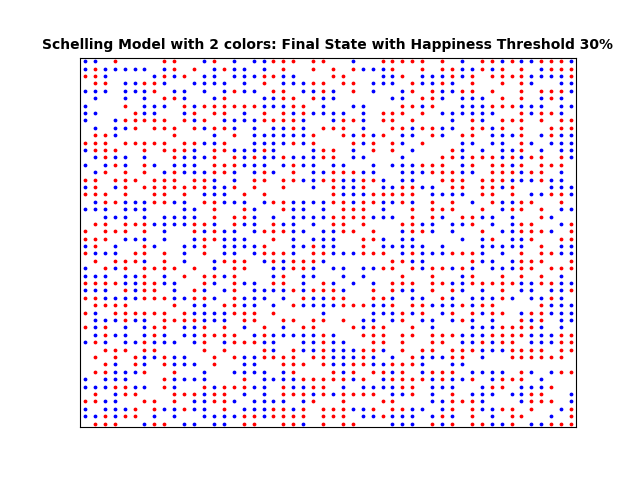
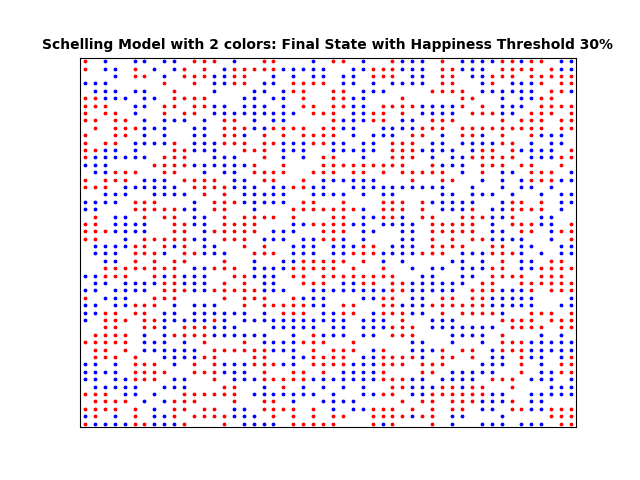
Agents have prefrence

Changed region(s): [[0.125, 0.125, 0.9062, 0.9062], [0.5312, 0.875, 0.5625, 0.9062]]

diff --git a/Segregation.py b/Segregation.py
@@ -14,89 +14,88 @@ import copy
 
 
 class Schelling:
-    def __init__(self, width, height, empty_ratio, similarity_threshold, n_iterations, colors=2):
+    def __init__(self, width, height, empty_ratio, similarity_thresholds, n_iterations, colors=2, preference_thresholds=None):
         self.agents = None
         self.width = width
         self.height = height
         self.colors = colors
         self.empty_ratio = empty_ratio
-        self.similarity_threshold = similarity_threshold
+        self.similarity_thresholds = similarity_thresholds
+        self.preference_thresholds = preference_thresholds
         self.n_iterations = n_iterations
 
     def populate(self):
-            self.empty_houses = []
-            self.agents = {}
-            print("Populate ", self.width, self.height)
-            self.all_houses = list(itertools.product(range(self.width), range(self.height)))
-            print(self.all_houses)
-            random.shuffle(self.all_houses)
+        self.empty_houses = []
+        self.agents = {}
+        self.all_houses = list(itertools.product(range(self.width), range(self.height)))
+        random.shuffle(self.all_houses)
 
-            self.n_empty = int(self.empty_ratio * len(self.all_houses))
-            self.empty_houses = self.all_houses[:self.n_empty]
+        self.n_empty = int(self.empty_ratio * len(self.all_houses))
+        self.empty_houses = self.all_houses[:self.n_empty]
 
-            self.remaining_houses = self.all_houses[self.n_empty:]
-            houses_by_color = [self.remaining_houses[i::self.colors] for i in range(self.colors)]
-            print("Houses by color ", houses_by_color[0])
-            for i in range(self.colors):
-                # create agents for each color
-                dict2 = dict(zip(houses_by_color[i], [i + 1] * len(houses_by_color[i])))
-                self.agents = {**self.agents, **dict2}
-            print("dictionary", self.agents)
+        self.remaining_houses = self.all_houses[self.n_empty:]
+        houses_by_color = [self.remaining_houses[i::self.colors] for i in range(self.colors)]
+
+        for i in range(self.colors):
+            dict2 = dict(zip(houses_by_color[i], [(i + 1, self.preference_thresholds.get(i + 1, 0.5))] * len(houses_by_color[i])))
+            self.agents = {**self.agents, **dict2}
 
     def is_unsatisfied(self, x, y):
-
-        myColor = self.agents[(x, y)]
+        myColor, myThreshold = self.agents[(x, y)]
         count_similar = 0
         count_different = 0
 
         if x > 0 and y > 0 and (x - 1, y - 1) not in self.empty_houses:
-            if self.agents[(x - 1, y - 1)] == myColor:
+            if self.agents[(x - 1, y - 1)][0] == myColor:
                 count_similar += 1
             else:
                 count_different += 1
         if y > 0 and (x, y - 1) not in self.empty_houses:
-            if self.agents[(x, y - 1)] == myColor:
+            if self.agents[(x, y - 1)][0] == myColor:
                 count_similar += 1
             else:
                 count_different += 1
         if x < (self.width - 1) and y > 0 and (x + 1, y - 1) not in self.empty_houses:
-            if self.agents[(x + 1, y - 1)] == myColor:
+            if self.agents[(x + 1, y - 1)][0] == myColor:
                 count_similar += 1
             else:
                 count_different += 1
         if x > 0 and (x - 1, y) not in self.empty_houses:
-            if self.agents[(x - 1, y)] == myColor:
+            if self.agents[(x - 1, y)][0] == myColor:
                 count_similar += 1
             else:
                 count_different += 1
         if x < (self.width - 1) and (x + 1, y) not in self.empty_houses:
-            if self.agents[(x + 1, y)] == myColor:
+            if self.agents[(x + 1, y)][0] == myColor:
                 count_similar += 1
             else:
                 count_different += 1
         if x > 0 and y < (self.height - 1) and (x - 1, y + 1) not in self.empty_houses:
-            if self.agents[(x - 1, y + 1)] == myColor:
+            if self.agents[(x - 1, y + 1)][0] == myColor:
                 count_similar += 1
             else:
                 count_different += 1
         if x > 0 and y < (self.height - 1) and (x, y + 1) not in self.empty_houses:
-            if self.agents[(x, y + 1)] == myColor:
+            if self.agents[(x, y + 1)][0] == myColor:
                 count_similar += 1
             else:
                 count_different += 1
         if x < (self.width - 1) and y < (self.height - 1) and (x + 1, y + 1) not in self.empty_houses:
-            if self.agents[(x + 1, y + 1)] == myColor:
+            if self.agents[(x + 1, y + 1)][0] == myColor:
                 count_similar += 1
             else:
                 count_different += 1
 
-        color_threshold = self.similarity_threshold.get(myColor, self.similarity_threshold)  # Get color-specific threshold
+        color_threshold = self.similarity_thresholds.get(myColor, self.similarity_thresholds)
+        preference_threshold = myThreshold
+
         if (count_similar + count_different) == 0:
             return False
         else:
-            return float(count_similar) / (count_similar + count_different) < color_threshold
-    
-    def move_locations(self, similarity_threshold=1e-2, consecutive_iterations_threshold=1, swap_probability=0.5):
+            return (float(count_similar) / (count_similar + count_different)) < color_threshold or \
+                   (float(count_similar) / (count_similar + count_different)) < preference_threshold
+
+    def move_locations(self, similarity_threshold=1e-2, consecutive_iterations_threshold=3, swap_probability=0.5):
         total_distance = 0
         prev_similarity = 0.0
         consecutive_iterations = 0
@@ -167,11 +166,21 @@ class Schelling:
         return self.calculate_similarity_for_agent(agent1) < self.calculate_similarity_for_agent(agent2)
     
     def calculate_similarity_for_agent(self, agent):
-        # Calculate similarity for a specific agent
         count_similar = 0
         count_different = 0
         x, y = agent
         color = self.agents[(x, y)]
+
+        # Check similarity with neighbors
+        for i in range(-1, 2):
+            for j in range(-1, 2):
+                if 0 <= x + i < self.width and 0 <= y + j < self.height and (i, j) != (0, 0):
+                    neighbor_color = self.agents.get((x + i, y + j), None)
+                    if neighbor_color is not None:
+                        if neighbor_color == color:
+                            count_similar += 1
+                        else:
+                            count_different += 1
 
         try:
             return float(count_similar) / (count_similar + count_different)
@@ -180,11 +189,20 @@ class Schelling:
     
     def plot(self, title, file_name):
         fig, ax = plt.subplots()
-        # If you want to run the simulation with more than 7 colors, you should set agent_colors accordingly
-        agent_colors = {1: 'b', 2: 'r', 3: 'g', 4: 'c', 5: 'm', 6: 'y', 7: 'k', 8: 'orange', 9: 'purple'}
-        marker_size = 150/self.width  # no logic here, I just played around with it
-        for agent in self.agents:
-            ax.scatter(agent[0] + 0.5, agent[1] + 0.5,s=marker_size, color=agent_colors[self.agents[agent]])
+
+        # Define color schemes for 2, 3, and 5 colors
+        color_schemes = {
+            2: {1: 'blue', 2: 'red'},
+            3: {1: 'blue', 2: 'red', 3: 'green'},
+            5: {1: 'blue', 2: 'red', 3: 'green', 4: 'yellow', 5: 'purple'}
+        }
+
+        agent_colors = color_schemes.get(self.colors, {i: 'gray' for i in range(1, self.colors + 1)})
+
+        marker_size = 150 / self.width
+        for agent, color in self.agents.items():
+            x, y = agent
+            ax.scatter(x + 0.5, y + 0.5, s=marker_size, color=agent_colors.get(color[0], 'gray'))
 
         ax.set_title(title, fontsize=10, fontweight='bold')
         ax.set_xlim([0, self.width])
@@ -250,30 +268,35 @@ class Schelling:
 
 def main():
     ##Starter Simulation
-    schelling_0 = Schelling(5, 5, 0.3, {1: 0.3, 2: 0.3}, 200, 2)  # Example with different thresholds for each color
+    schelling_0 = Schelling(5, 5, 0.3, {1: 0.3, 2: 0.3}, 200, 2, {1: 0.5, 2: 0.5})  # Example with different thresholds for each color
     schelling_0.populate()
 
     ##First Simulation
-    schelling_1 = Schelling(50, 50, 0.3, {1: 0.3, 2: 0.3}, 200, 2)
+    schelling_1 = Schelling(50, 50, 0.3, {1: 0.3, 2: 0.3}, 200, 2, {1: 0.5, 2: 0.5})
     schelling_1.populate()
 
-    schelling_2 = Schelling(50, 50, 0.3, {1: 0.3, 2: 0.5}, 200, 2)
+    schelling_2 = Schelling(50, 50, 0.3, {1: 0.3, 2: 0.5}, 200, 2, {1: 0.5, 2: 0.5})
     schelling_2.populate()
 
-    schelling_3 = Schelling(50, 50, 0.3, {1: 0.3, 2: 0.8}, 200, 2)
+    schelling_3 = Schelling(50, 50, 0.3, {1: 0.3, 2: 0.8}, 200, 2, {1: 0.5, 2: 0.5})
     schelling_3.populate()
-
-    schelling_0_with_3_colors = Schelling(5, 5, 0.3, {1: 0.3, 2: 0.3, 3: 0.3}, 200, 3)
+    
+    schelling_0_with_3_colors = Schelling(5, 5, 0.3, {1: 0.3, 2: 0.3, 3: 0.3}, 200, 3, {1: 0.5, 2: 0.5})
     schelling_0_with_3_colors.populate()
 
-    schelling_1_with_3_colors = Schelling(50, 50, 0.3, {1: 0.3, 2: 0.3, 3: 0.4}, 200, 3)
+    schelling_1_with_3_colors = Schelling(50, 50, 0.3, {1: 0.3, 2: 0.3, 3: 0.4}, 200, 3, {1: 0.5, 2: 0.5})
     schelling_1_with_3_colors.populate()
 
-    schelling_2_with_3_colors = Schelling(50, 50, 0.3, {1: 0.3, 2: 0.5, 3: 0.2}, 200, 3)
+    schelling_2_with_3_colors = Schelling(50, 50, 0.3, {1: 0.3, 2: 0.5, 3: 0.2}, 200, 3, {1: 0.5, 2: 0.5})
     schelling_2_with_3_colors.populate()
     
-    schelling_3_with_3_colors = Schelling(50, 50, 0.3, {1: 0.3, 2: 0.8, 3: 0.4}, 200, 3)
+    schelling_3_with_3_colors = Schelling(50, 50, 0.3, {1: 0.3, 2: 0.8, 3: 0.4}, 200, 3, {1: 0.5, 2: 0.5})
     schelling_3_with_3_colors.populate()
+    
+    schelling_4_with_5_colors = Schelling(50, 50, 0.3, {1: 0.3, 2: 0.4, 3: 0.2, 4: 0.1, 5: 0.5}, 200, 5, {1: 0.5, 2: 0.5})
+    schelling_4_with_5_colors.populate()
+    
+    schelling_4_with_5_colors.plot('Schelling Model with 5 colors: Initial State', 'schelling_5_color_initial.png')
     
     schelling_1.plot('Schelling Model with 2 colors: Initial State', 'schelling_2_initial.png')
     schelling_1_with_3_colors.plot('Schelling Model with 3 colors: Initial State', 'schelling_2_color_initial.png')
@@ -281,10 +304,12 @@ def main():
     schelling_0.move_locations()
     schelling_1.move_locations()
     schelling_2.move_locations()
+    schelling_3.move_locations()
     schelling_0_with_3_colors.move_locations()
     schelling_1_with_3_colors.move_locations()
     schelling_2_with_3_colors.move_locations()
-    schelling_3.move_locations()
+    schelling_4_with_5_colors.move_locations()
+    
     schelling_0.plot('Schelling Model with 2 colors: Final State with Happiness Threshold 30%',
                      'schelling_0_30_final.png')
     schelling_1.plot('Schelling Model with 2 colors: Final State with Happiness Threshold 30%',
@@ -293,15 +318,17 @@ def main():
                      'schelling_50_final.png')
     schelling_3.plot('Schelling Model with 2 colors: Final State with Happiness Threshold 80%',
                      'schelling_80_final.png')
-    schelling_3_with_3_colors.plot('Schelling Model with 3 colors: Final State with Happiness Threshold 80%',
-                     'schelling_80_color_final.png')
+    
     schelling_0_with_3_colors.plot('Schelling Model with 3 colors: Final State with Happiness Threshold 30%',
                      'schelling_0_30_color_final.png')
     schelling_1_with_3_colors.plot('Schelling Model with 3 colors: Final State with Happiness Threshold 30%',
                      'schelling_30_color_final.png')
     schelling_2_with_3_colors.plot('Schelling Model with 3 colors: Final State with Happiness Threshold 50%',
                      'schelling_50_color_final.png')
-
+    schelling_3_with_3_colors.plot('Schelling Model with 3 colors: Final State with Happiness Threshold 80%',
+                     'schelling_80_color_final.png')
+    schelling_4_with_5_colors.plot('Schelling Model with 5 colors: Final State with Happiness Threshold 50%',
+                                   'schelling_5_color_final.png')
 
 if __name__ == "__main__":
     main()
